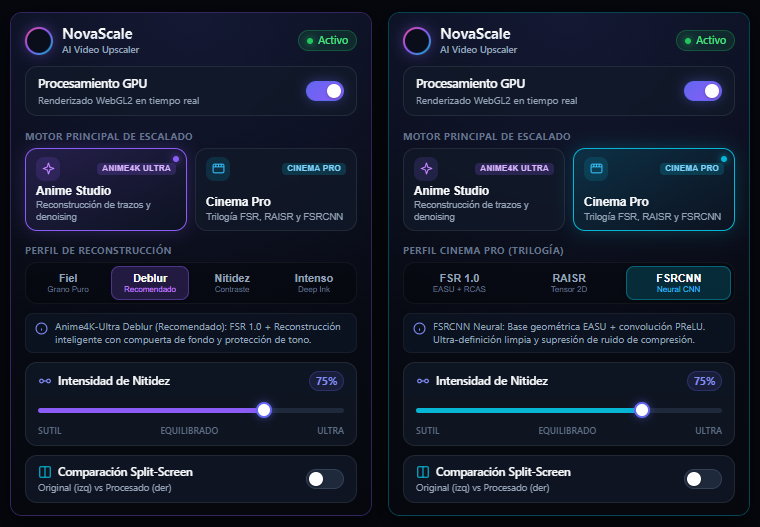
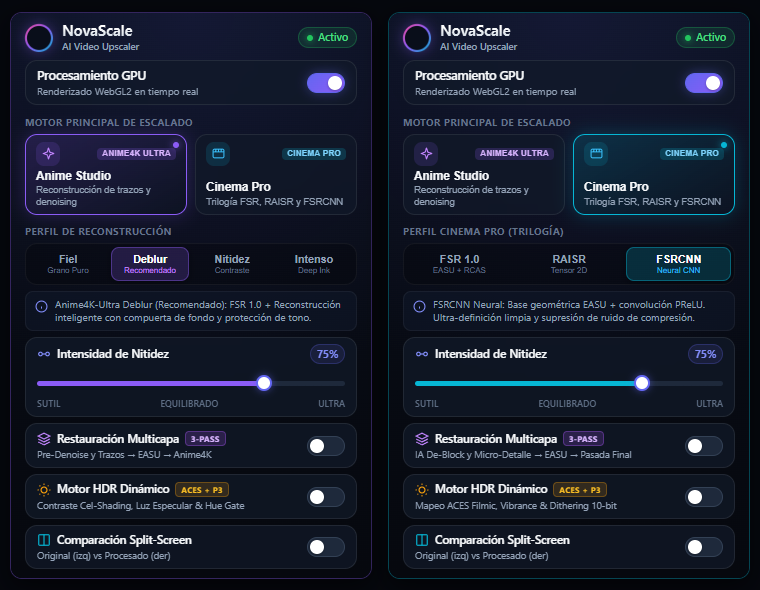
feat(ui): add Multi-Layer Restore and Dynamic HDR controls with EN/ES i18n assets

Changed region(s): [[0.0303, 0.0, 0.4842, 1.0], [0.5145, 0.0, 0.9684, 1.0], [0.3632, 0.2429, 0.4539, 0.2732]]

diff --git a/popup/popup.js b/popup/popup.js
@@ -39,6 +39,10 @@ document.addEventListener('DOMContentLoaded', () => {
 
   const toggleEnable = document.getElementById('toggleEnable');
   const toggleSplit = document.getElementById('toggleSplit');
+  const toggleHdr = document.getElementById('toggleHdr');
+  const hdrSubtitle = document.getElementById('hdrSubtitle');
+  const toggleMultiLayer = document.getElementById('toggleMultiLayer');
+  const multiLayerSubtitle = document.getElementById('multiLayerSubtitle');
   const statusPill = document.getElementById('statusPill');
   const statusText = document.getElementById('statusText');
   const optionsContainer = document.getElementById('optionsContainer');
@@ -72,6 +76,8 @@ document.addEventListener('DOMContentLoaded', () => {
     cinemaProfile: 'cinema-fsr', // 'cinema-fsr' | 'cinema-raisr' | 'cinema-fsrcnn'
     mode: 'anime-dbl',
     sharpness: 0.75,
+    hdr: false,
+    multiLayer: false,
     splitScreen: false
   };
 
@@ -79,7 +85,7 @@ document.addEventListener('DOMContentLoaded', () => {
   let hasPendingSave = false;
 
   // 1. Load persisted user preferences with legacy auto-migration
-  chrome.storage.local.get(['enabled', 'mode', 'sharpness', 'splitScreen', 'engine', 'animeProfile', 'cinemaProfile'], (res) => {
+  chrome.storage.local.get(['enabled', 'mode', 'sharpness', 'hdr', 'multiLayer', 'splitScreen', 'engine', 'animeProfile', 'cinemaProfile'], (res) => {
     if (chrome.runtime.lastError) {
       console.warn('NovaScale: failed to read local storage:', chrome.runtime.lastError);
       return;
@@ -91,6 +97,8 @@ document.addEventListener('DOMContentLoaded', () => {
     if (typeof res.sharpness === 'number' && !isNaN(res.sharpness)) {
       state.sharpness = Math.max(0.0, Math.min(1.0, res.sharpness));
     }
+    if (res.hdr !== undefined) state.hdr = Boolean(res.hdr);
+    if (res.multiLayer !== undefined) state.multiLayer = Boolean(res.multiLayer);
     if (res.splitScreen !== undefined) state.splitScreen = Boolean(res.splitScreen);
 
     // Resolve active mode and engine
@@ -150,6 +158,14 @@ document.addEventListener('DOMContentLoaded', () => {
       state.sharpness = Math.max(0.0, Math.min(1.0, changes.sharpness.newValue));
       changed = true;
     }
+    if (changes.hdr && changes.hdr.newValue !== state.hdr) {
+      state.hdr = Boolean(changes.hdr.newValue);
+      changed = true;
+    }
+    if (changes.multiLayer && changes.multiLayer.newValue !== state.multiLayer) {
+      state.multiLayer = Boolean(changes.multiLayer.newValue);
+      changed = true;
+    }
     if (changes.splitScreen && changes.splitScreen.newValue !== state.splitScreen) {
       state.splitScreen = Boolean(changes.splitScreen.newValue);
       changed = true;
@@ -163,6 +179,22 @@ document.addEventListener('DOMContentLoaded', () => {
   // 3. Render and update reactive UI components
   function updateUI() {
     toggleEnable.checked = state.enabled;
+    if (toggleMultiLayer) {
+      toggleMultiLayer.checked = state.multiLayer;
+    }
+    if (multiLayerSubtitle) {
+      multiLayerSubtitle.textContent = state.engine === 'anime'
+        ? t('multiLayerSubtitleAnime', 'Pre-Denoise & Line Restore \u2192 EASU \u2192 Anime4K')
+        : t('multiLayerSubtitleCinema', 'De-Block & Micro-Detail AI \u2192 EASU \u2192 Target Pass');
+    }
+    if (toggleHdr) {
+      toggleHdr.checked = state.hdr;
+    }
+    if (hdrSubtitle) {
+      hdrSubtitle.textContent = state.engine === 'anime'
+        ? t('hdrSubtitleAnime', 'Cel-Shading Contrast, Specular Light & Hue Gate')
+        : t('hdrSubtitleCinema', 'ACES Filmic Mapping, Vibrance & 10-bit Dithering');
+    }
     if (toggleSplit) {
       toggleSplit.checked = state.splitScreen;
     }
@@ -282,6 +314,22 @@ document.addEventListener('DOMContentLoaded', () => {
     updateUI();
     saveImmediate({ enabled: state.enabled });
   });
+
+  if (toggleMultiLayer) {
+    toggleMultiLayer.addEventListener('change', (e) => {
+      state.multiLayer = e.target.checked;
+      updateUI();
+      saveImmediate({ multiLayer: state.multiLayer });
+    });
+  }
+
+  if (toggleHdr) {
+    toggleHdr.addEventListener('change', (e) => {
+      state.hdr = e.target.checked;
+      updateUI();
+      saveImmediate({ hdr: state.hdr });
+    });
+  }
 
   if (toggleSplit) {
     toggleSplit.addEventListener('change', (e) => {

diff --git a/popup/popup.html b/popup/popup.html
@@ -165,6 +165,45 @@
         </div>
       </section>
 
+      <!-- Multi-Layer 3-Pass Restore Card (Transversal Anime & Cinema) -->
+      <label class="card multilayer-card" for="toggleMultiLayer">
+        <div class="split-info">
+          <div class="split-title-wrap">
+            <svg class="multilayer-svg" viewBox="0 0 24 24" fill="none" stroke="currentColor" stroke-width="2">
+              <polygon points="12 2 2 7 12 12 22 7 12 2"/>
+              <polyline points="2 12 12 17 22 12"/>
+              <polyline points="2 17 12 22 22 17"/>
+            </svg>
+            <span class="split-title" data-i18n="multiLayerTitle">Multi-Layer Restore</span>
+            <span class="multilayer-badge">3-Pass</span>
+          </div>
+          <span id="multiLayerSubtitle" class="split-subtitle" data-i18n="multiLayerSubtitleAnime">Pre-Denoise &amp; Line Restore &rarr; EASU &rarr; Anime4K</span>
+        </div>
+        <div class="toggle-switch">
+          <input type="checkbox" id="toggleMultiLayer">
+          <span class="toggle-track"></span>
+        </div>
+      </label>
+
+      <!-- Dynamic HDR Tone Mapping Card (Transversal Anime & Cinema) -->
+      <label class="card hdr-card" for="toggleHdr">
+        <div class="split-info">
+          <div class="split-title-wrap">
+            <svg class="hdr-svg" viewBox="0 0 24 24" fill="none" stroke="currentColor" stroke-width="2">
+              <circle cx="12" cy="12" r="5"/>
+              <path d="M12 1v2M12 21v2M4.22 4.22l1.42 1.42M18.36 18.36l1.42 1.42M1 12h2M21 12h2M4.22 19.78l1.42-1.42M18.36 5.64l1.42-1.42"/>
+            </svg>
+            <span class="split-title" data-i18n="hdrTitle">Dynamic HDR Engine</span>
+            <span class="hdr-badge">ACES + P3</span>
+          </div>
+          <span id="hdrSubtitle" class="split-subtitle" data-i18n="hdrSubtitleAnime">Cel-Shading Contrast, Specular Light &amp; Hue Gate</span>
+        </div>
+        <div class="toggle-switch">
+          <input type="checkbox" id="toggleHdr">
+          <span class="toggle-track"></span>
+        </div>
+      </label>
+
       <!-- Split-Screen Laser Card -->
       <label class="card split-card" for="toggleSplit">
         <div class="split-info">

diff --git a/popup/popup.css b/popup/popup.css
@@ -681,3 +681,73 @@ html, body {
   color: var(--text-secondary);
   margin-top: 1px;
 }
+
+/* ── Dynamic HDR Card ───────────────────────────────────────────────────── */
+.hdr-card {
+  display: flex;
+  align-items: center;
+  justify-content: space-between;
+  cursor: pointer;
+  padding: 8px 12px;
+}
+
+.hdr-card:hover {
+  border-color: rgba(245, 158, 11, 0.35);
+  background: rgba(22, 32, 51, 0.85);
+}
+
+.hdr-svg {
+  width: 14px;
+  height: 14px;
+  color: #f59e0b;
+}
+
+.hdr-badge {
+  font-size: 8px;
+  font-weight: 700;
+  text-transform: uppercase;
+  letter-spacing: 0.3px;
+  padding: 1px 5px;
+  border-radius: 4px;
+  background: rgba(245, 158, 11, 0.16);
+  color: #fbbf24;
+  border: 1px solid rgba(245, 158, 11, 0.3);
+}
+
+/* Compact spacing to host all 4 toggle cards cleanly below 600px without scrolling */
+.popup-wrapper { padding: 9px 14px; gap: 6.5px; }
+.options-container { gap: 6px; }
+.engine-card { min-height: 68px; padding: 7px 10px; }
+.card, .hdr-card, .split-card { padding: 6px 11px; }
+
+/* ── Multi-Layer 3-Pass Restore Card ────────────────────────────────────── */
+.multilayer-card {
+  display: flex;
+  align-items: center;
+  justify-content: space-between;
+  cursor: pointer;
+  padding: 6.5px 11px;
+}
+
+.multilayer-card:hover {
+  border-color: rgba(168, 85, 247, 0.4);
+  background: rgba(22, 32, 51, 0.85);
+}
+
+.multilayer-svg {
+  width: 14px;
+  height: 14px;
+  color: #c084fc;
+}
+
+.multilayer-badge {
+  font-size: 8px;
+  font-weight: 700;
+  text-transform: uppercase;
+  letter-spacing: 0.3px;
+  padding: 1px 5px;
+  border-radius: 4px;
+  background: rgba(168, 85, 247, 0.18);
+  color: #d8b4fe;
+  border: 1px solid rgba(168, 85, 247, 0.35);
+}
